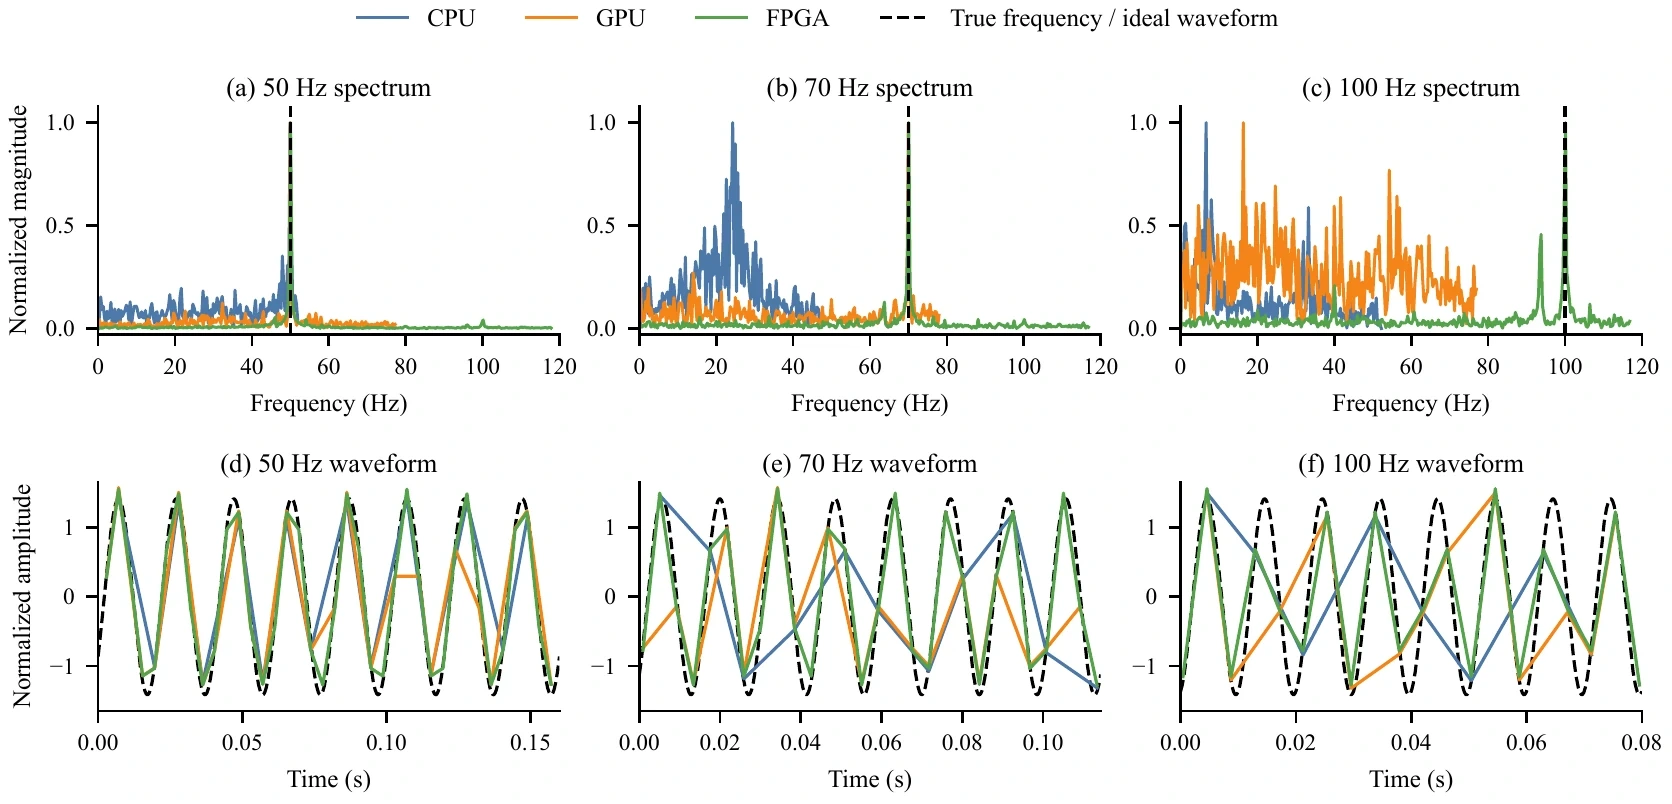
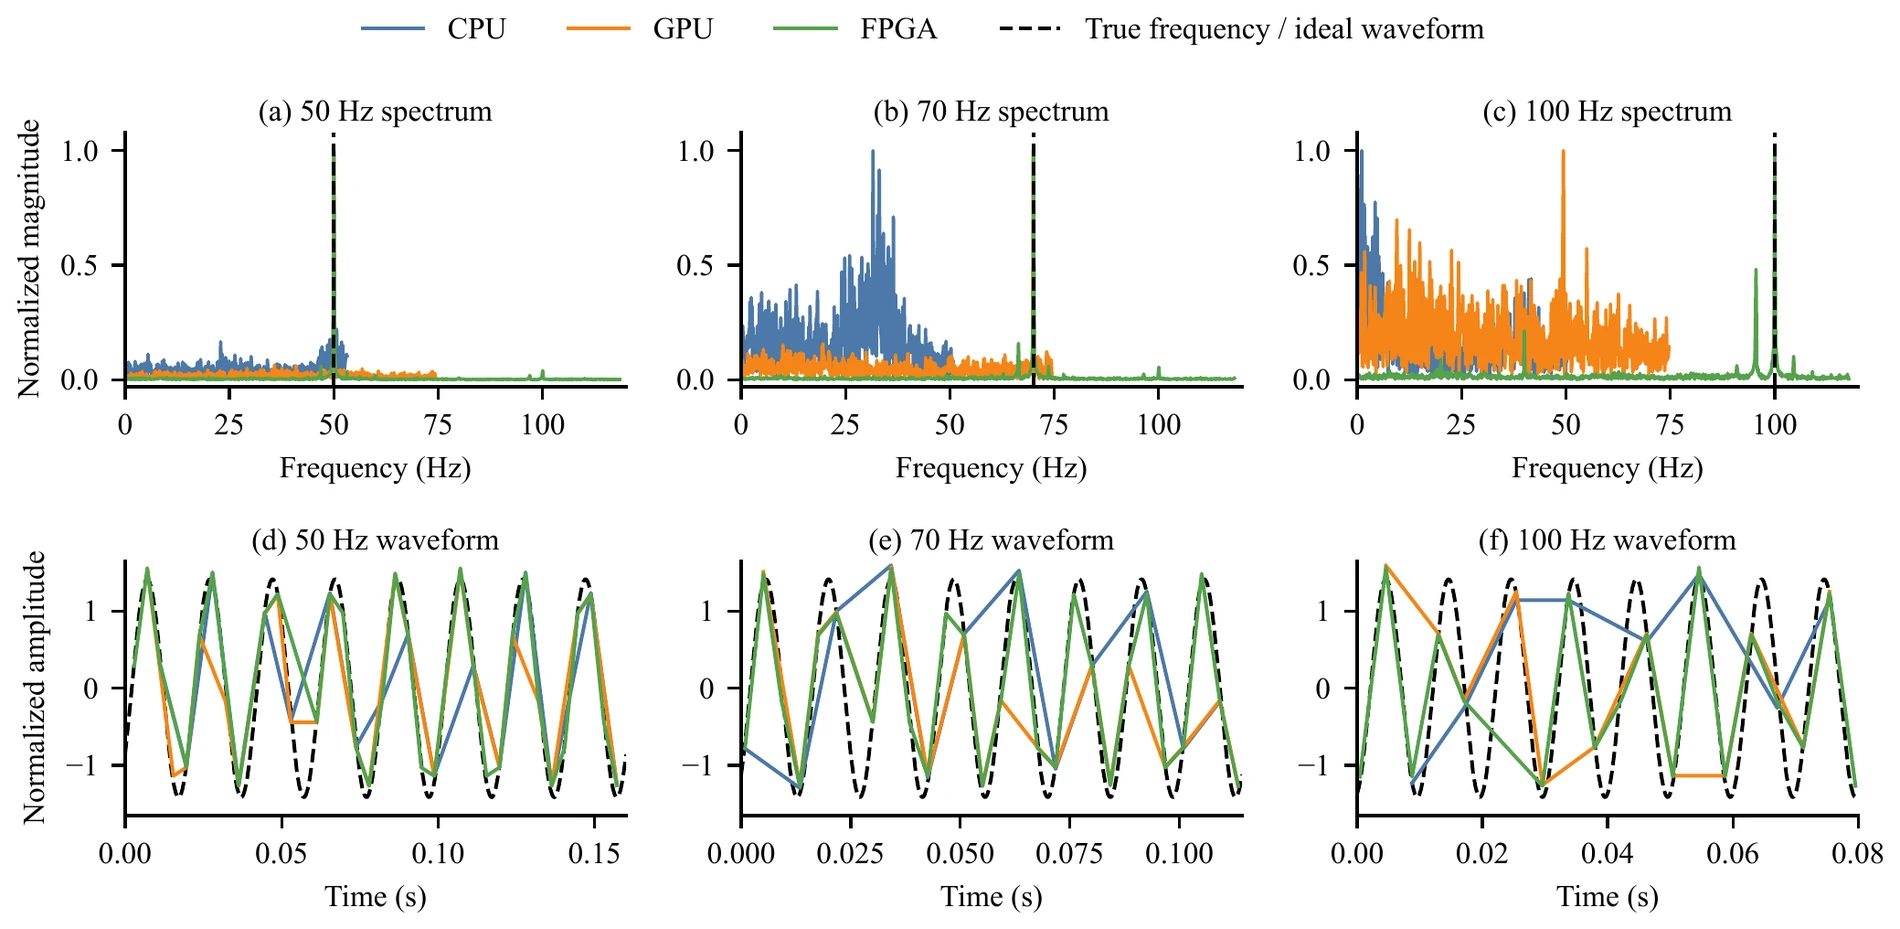
Migrate project site to GelSpec3D

diff --git a/index.html b/index.html
@@ -3,13 +3,13 @@
 <head>
   <meta charset="utf-8">
   <meta name="viewport" content="width=device-width, initial-scale=1">
-  <meta name="description" content="FasTac is a curved RGB-NIR vision-tactile sensor for high-fidelity, high-speed 3D shape and 3-axis force perception.">
+  <meta name="description" content="GelSpec3D is a curved multispectral vision-tactile sensor for high-precision, high-speed 3D shape and three-axis force perception.">
   <meta name="theme-color" content="#f6f8f7">
   <meta property="og:type" content="website">
-  <meta property="og:title" content="FasTac: Curved Vision-Tactile Perception">
-  <meta property="og:description" content="A curved RGB-NIR vision-tactile sensor for 3D reconstruction, 3-axis force perception, and FPGA edge acceleration.">
+  <meta property="og:title" content="GelSpec3D: Curved Multispectral Vision-Tactile Perception">
+  <meta property="og:description" content="High-precision 3D reconstruction, three-axis force perception, and high-speed FPGA edge decoding in a curved RGB-NIR fingertip.">
   <meta property="og:image" content="assets/images/og-cover.webp">
-  <title>FasTac | Curved Vision-Tactile Perception</title>
+  <title>GelSpec3D | Curved Multispectral Vision-Tactile Perception</title>
   <link rel="icon" href="assets/images/favicon.svg" type="image/svg+xml">
   <link rel="stylesheet" href="assets/css/style.css">
   <script src="assets/js/main.js" defer></script>
@@ -19,9 +19,9 @@
 
   <header class="site-header" data-header>
     <div class="nav-wrap">
-      <a class="brand" href="#top" aria-label="FasTac home">
-        <span class="brand-mark">F</span>
-        <span>FasTac</span>
+      <a class="brand" href="#top" aria-label="GelSpec3D home">
+        <span class="brand-mark">G</span>
+        <span>GelSpec3D</span>
       </a>
       <button class="nav-toggle" type="button" aria-expanded="false" aria-controls="site-nav">
         <span class="sr-only">Toggle navigation</span>
@@ -43,7 +43,7 @@
       <div class="container hero-grid">
         <div class="hero-copy">
           <p class="status-line">Under Review</p>
-          <h1>FasTac: A Curved Vision-Tactile Sensor for High-Fidelity, High-Speed 3D Shape and Three-Axis Force Perception</h1>
+          <h1>GelSpec3D: A Curved Multispectral Vision-Tactile Sensor for High-Precision, High-Speed 3D Shape and Three-Axis Force Perception</h1>
           <p class="authors">
             <a href="https://jayvenlu.github.io/" target="_blank" rel="noreferrer">Xiaofan Lu</a>,
             <span>Kaiji Huang</span>,
@@ -61,7 +61,7 @@
           </div>
         </div>
         <figure class="hero-figure">
-          <img src="assets/images/overview.webp" alt="FasTac sensors on a dexterous hand, RGB and NIR observations, surface normals, depth, and 3-axis force visualization." width="1600" height="900">
+          <img src="assets/images/overview.webp" alt="GelSpec3D sensors on a dexterous hand, RGB and NIR observations, surface normals, depth, and three-axis force visualization." width="1600" height="900">
         </figure>
       </div>
     </section>
@@ -73,7 +73,7 @@
             <p class="section-index">01 / Overview</p>
             <h2>Curved tactile geometry, force, and speed in one fingertip.</h2>
           </div>
-          <p>FasTac combines RGB-NIR multispectral imaging, curved-surface 3D reconstruction, position-aware 3-axis force estimation, and an FPGA image-to-normal-force pipeline for dexterous-hand integration.</p>
+          <p>GelSpec3D combines RGB-NIR multispectral imaging, curved-surface 3D reconstruction, position-aware three-axis force estimation, and an FPGA image-to-normal-force pipeline for dexterous-hand integration.</p>
         </div>
 
         <div class="metrics-grid" aria-label="Key results">
@@ -124,7 +124,7 @@
           <p>Visible and near-infrared signals are captured from the same optical center, avoiding cross-camera registration while reducing sensor volume for fingertip integration.</p>
         </div>
         <figure class="paper-figure">
-          <img src="assets/images/sensor-structure.webp" alt="Mechanical design and integration of the FasTac curved sensor." width="810" height="412" loading="lazy">
+          <img src="assets/images/sensor-structure.webp" alt="Mechanical design and integration of the GelSpec3D curved sensor." width="810" height="412" loading="lazy">
           <figcaption>Mechanical structure and compact RGB-NIR imaging module.</figcaption>
         </figure>
       </div>
@@ -137,11 +137,11 @@
             <p class="section-index">03 / Method</p>
             <h2>From raw RGB-NIR images to shape, displacement, and force.</h2>
           </div>
-          <p>FasTac decodes contact through four-source photometric stereo, boundary-prior fast Poisson depth recovery, marker-based tangential displacement extraction, and HyperForce 3-axis force estimation.</p>
+          <p>GelSpec3D decodes contact through four-source photometric stereo, boundary-prior fast Poisson depth recovery, marker-based tangential displacement extraction, and HyperForce three-axis force estimation.</p>
         </div>
 
         <figure class="paper-figure figure-wide">
-          <img src="assets/images/perception-pipeline.webp" alt="FasTac pipeline for normal estimation, depth reconstruction, marker displacement extraction, and position-aware 3-axis force estimation." width="1835" height="965" loading="lazy">
+          <img src="assets/images/perception-pipeline.webp" alt="GelSpec3D pipeline for normal estimation, depth reconstruction, marker displacement extraction, and position-aware three-axis force estimation." width="1835" height="965" loading="lazy">
           <figcaption>Perception pipeline for 3D reconstruction and 3-axis force estimation.</figcaption>
         </figure>
 
@@ -167,7 +167,7 @@
             </div>
           </div>
           <figure class="fpga-figure">
-            <img src="assets/images/fpga-architecture.webp" alt="FPGA architecture for the FasTac image-to-normal-force perception pipeline." width="1600" height="748" loading="lazy">
+            <img src="assets/images/fpga-architecture.webp" alt="FPGA architecture for the GelSpec3D image-to-normal-force perception pipeline." width="1600" height="748" loading="lazy">
             <figcaption>FPGA architecture for image synchronization, buffering, acceleration, and normal-force output.</figcaption>
           </figure>
         </div>
@@ -196,7 +196,7 @@
           </article>
           <article class="result-card">
             <figure>
-              <img src="assets/images/force-regression-tight.webp" alt="Regression plots comparing predicted 3-axis forces with ATI force-sensor ground truth." width="888" height="300" loading="lazy">
+              <img src="assets/images/force-regression-tight.webp" alt="Regression plots comparing predicted three-axis forces with ATI force-sensor ground truth." width="1123" height="386" loading="lazy">
             </figure>
             <div>
               <p class="card-label">Force estimation</p>
@@ -206,12 +206,22 @@
           </article>
           <article class="result-card">
             <figure>
-              <img src="assets/images/vibration-response-tight.webp" alt="CPU, GPU, and FPGA frequency spectra and time-domain responses under 50, 70, and 100 hertz vibration." width="1672" height="804" loading="lazy">
+              <img src="assets/images/spatial-robustness-tight.webp" alt="Resultant-force magnitude and direction errors across 64 curved-surface contact locations." width="1143" height="405" loading="lazy">
             </figure>
             <div>
-              <p class="card-label">High-frequency decoding</p>
+              <p class="card-label">Spatial robustness</p>
+              <h3>Position-aware force estimation remains stable across the curved sensing surface.</h3>
+              <p>Magnitude error rises from 0.039 N at the center to 0.061 N near the corners; direction error rises from 2.70° to 3.36°.</p>
+            </div>
+          </article>
+          <article class="result-card result-wide">
+            <figure>
+              <img src="assets/images/vibration-response-tight.webp" alt="CPU, GPU, and FPGA frequency spectra and time-domain responses under 50, 70, and 100 hertz vibration." width="1900" height="929" loading="lazy">
+            </figure>
+            <div>
+              <p class="card-label">High-speed decoding</p>
               <h3>The FPGA path supports continuous dynamic tactile measurement.</h3>
-              <p>The image-to-Fz pipeline reaches 1.09 ms latency and approximately 918 Hz output.</p>
+              <p>At 70 Hz, CPU aliases to 31.58 Hz while GPU and FPGA recover 69.98 and 70.03 Hz. At 100 Hz, CPU and GPU shift to 1.10 and 49.39 Hz while FPGA detects 100.04 Hz.</p>
             </div>
           </article>
         </div>
@@ -266,7 +276,7 @@
             </video>
             <div>
               <p class="card-label">Vibration</p>
-              <h3>High-frequency normal-force sensing</h3>
+              <h3>High-speed normal-force sensing</h3>
             </div>
           </article>
         </div>
@@ -278,12 +288,12 @@
         <div>
           <p class="section-index">06 / Citation</p>
           <h2>Provisional citation for an unpublished manuscript.</h2>
-          <p>FasTac is currently under review. The publication record and stable citation metadata will be updated after acceptance.</p>
+          <p>GelSpec3D is currently under review. The publication record and stable citation metadata will be updated after acceptance.</p>
         </div>
         <div class="citation-box">
           <button id="copy-citation" type="button">Copy BibTeX</button>
-          <pre id="bibtex"><code>@misc{lu2026fastac,
-  title={FasTac: A Curved Vision-Tactile Sensor for High-Fidelity, High-Speed 3D Shape and Three-Axis Force Perception},
+          <pre id="bibtex"><code>@misc{lu2026gelspec3d,
+  title={GelSpec3D: A Curved Multispectral Vision-Tactile Sensor for High-Precision, High-Speed 3D Shape and Three-Axis Force Perception},
   author={Lu, Xiaofan and Huang, Kaiji and Lin, Yuankai and Chen, Jiahui and Yang, Hua and Yin, Zhouping},
   year={2026},
   note={Manuscript under review}
@@ -296,7 +306,7 @@
 
   <footer class="site-footer">
     <div class="container footer-inner">
-      <p>FasTac / Huazhong University of Science and Technology</p>
+      <p>GelSpec3D / Huazhong University of Science and Technology</p>
       <p>Project page for an unpublished research manuscript.</p>
     </div>
   </footer>

diff --git a/assets/css/style.css b/assets/css/style.css
@@ -148,11 +148,11 @@ select {
 }
 
 .brand > span:last-child {
-  font-size: 1rem;
+  font-size: 1.02rem;
 }
 
 .brand-mark {
-  width: 34px;
+  width: 36px;
   height: 34px;
   display: grid;
   place-items: center;
@@ -751,7 +751,12 @@ select {
   align-items: start;
 }
 
+.citation-layout > * {
+  min-width: 0;
+}
+
 .citation-box {
+  min-width: 0;
   padding: 18px;
   background: var(--dark);
   border-radius: var(--radius);
@@ -920,9 +925,10 @@ select {
 
   .hero h1 {
     max-width: 100%;
-    font-size: 2.45rem;
+    font-size: 2.2rem;
     line-height: 1.12;
-    overflow-wrap: normal;
+    overflow-wrap: anywhere;
+    hyphens: auto;
   }
 
   .hero-actions {
@@ -979,8 +985,8 @@ select {
 @media (max-width: 420px) {
   .hero h1 {
     max-width: 100%;
-    font-size: 2.05rem;
-    overflow-wrap: break-word;
+    font-size: 1.92rem;
+    overflow-wrap: anywhere;
   }
 
   .hero-actions {

diff --git a/README.md b/README.md
@@ -1,11 +1,11 @@
-# FasTac Project Website
+# GelSpec3D Project Website
 
-Standalone static homepage for the FasTac research project.
+Standalone static homepage for the GelSpec3D research project.
 
 Intended GitHub Pages URL:
 
 ```text
-https://jayvenlu.github.io/fastac-website/
+https://jayvenlu.github.io/gelspec3d-website/
 ```
 
 ## Local Preview
